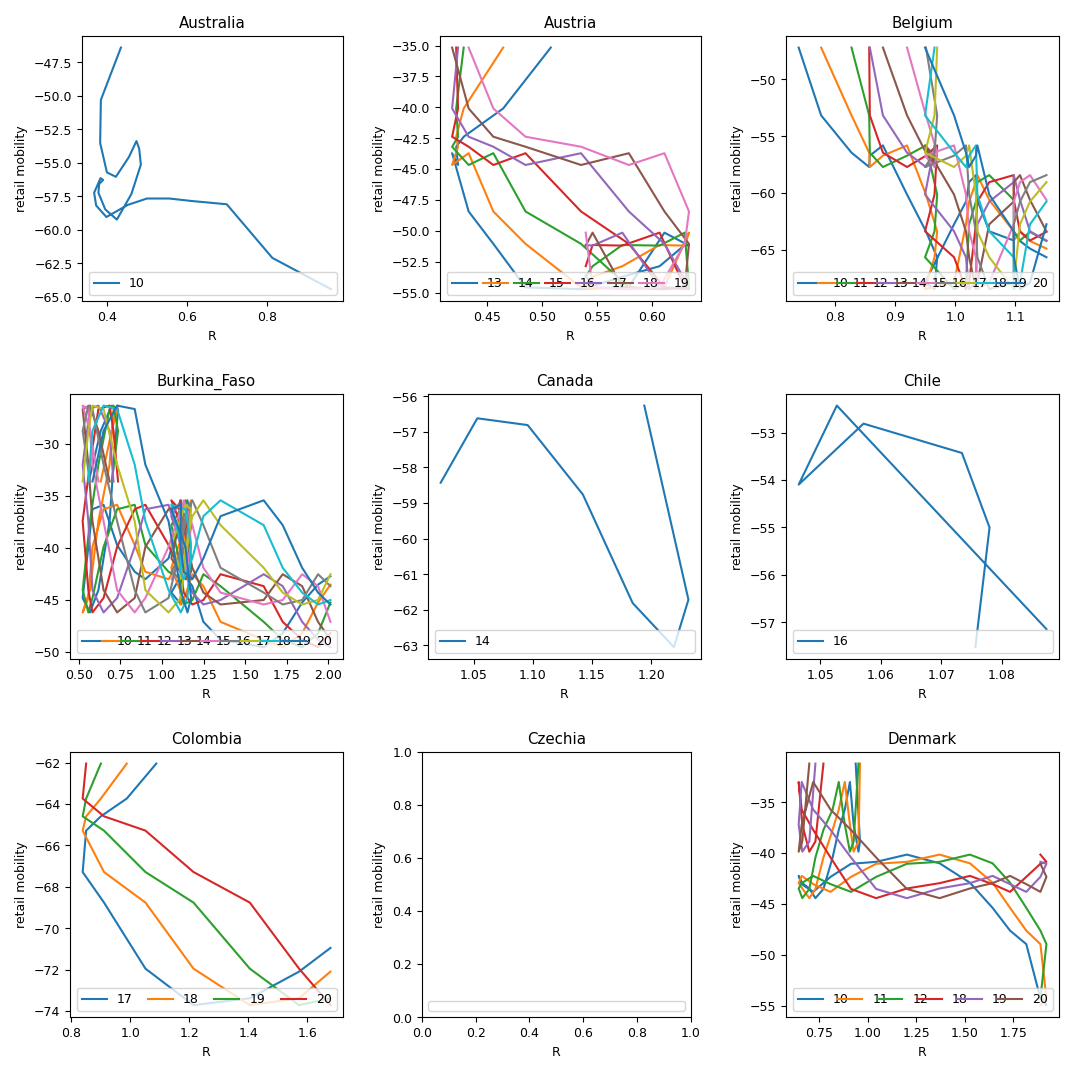
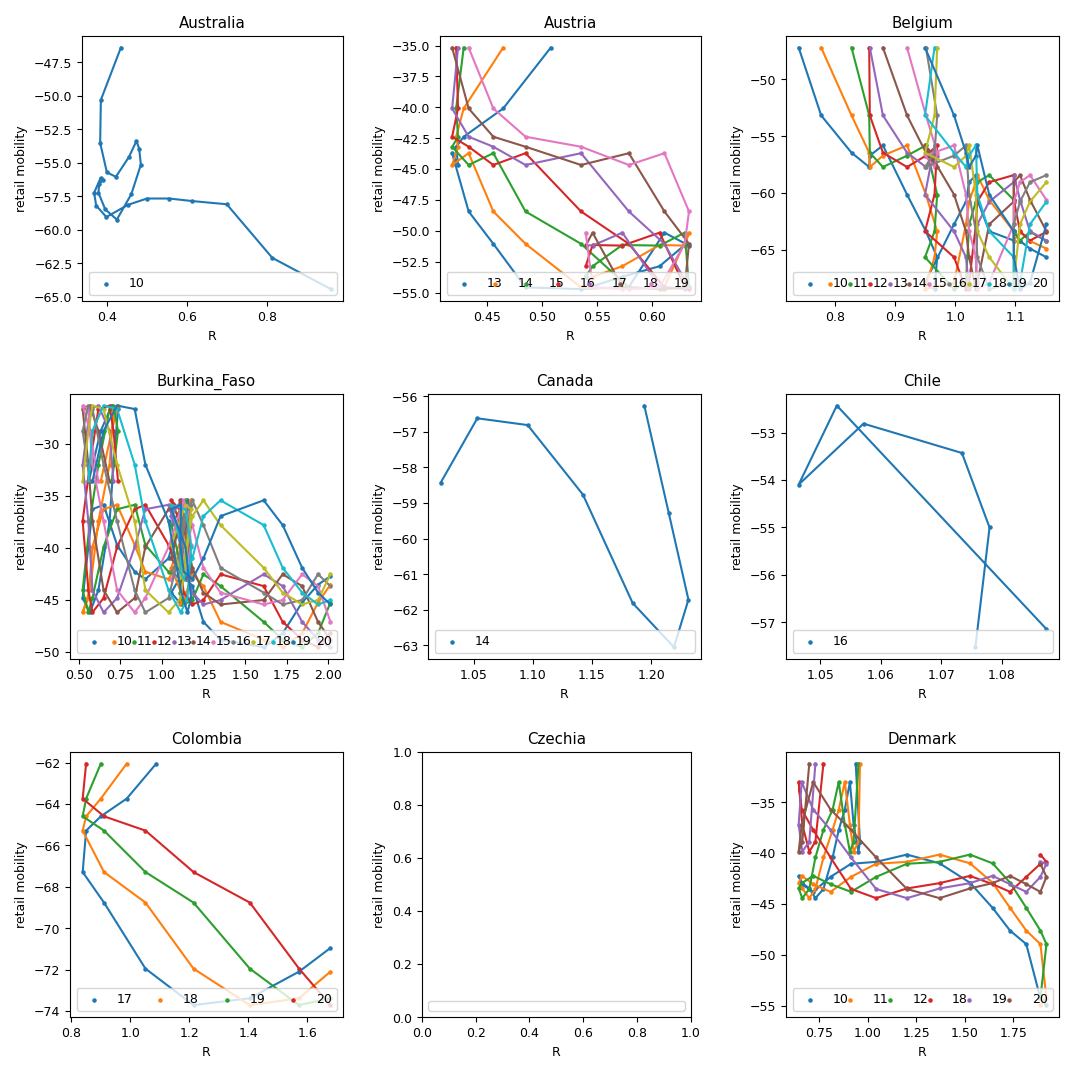
fixing plots

diff --git a/simulations/mobility_signal/construct_signals.py b/simulations/mobility_signal/construct_signals.py
@@ -230,8 +230,9 @@ def sanity_check(C_mob_delay, C_R_delay, signal_array, outdir, country):
         else:
             R_data = signal_array[0,:-m]
             mob_data = signal_array[n+1,m:]
-        if n==2 and m<=30 and m>=10:
-            plt.plot(R_data,mob_data, label=m)
+        if n==2 and m<=21 and m>=10:
+            plt.plot(R_data,mob_data)
+            plt.scatter(R_data,mob_data, label=m, s=5)
             ncols+=1
 
     ax.set_title(country)
